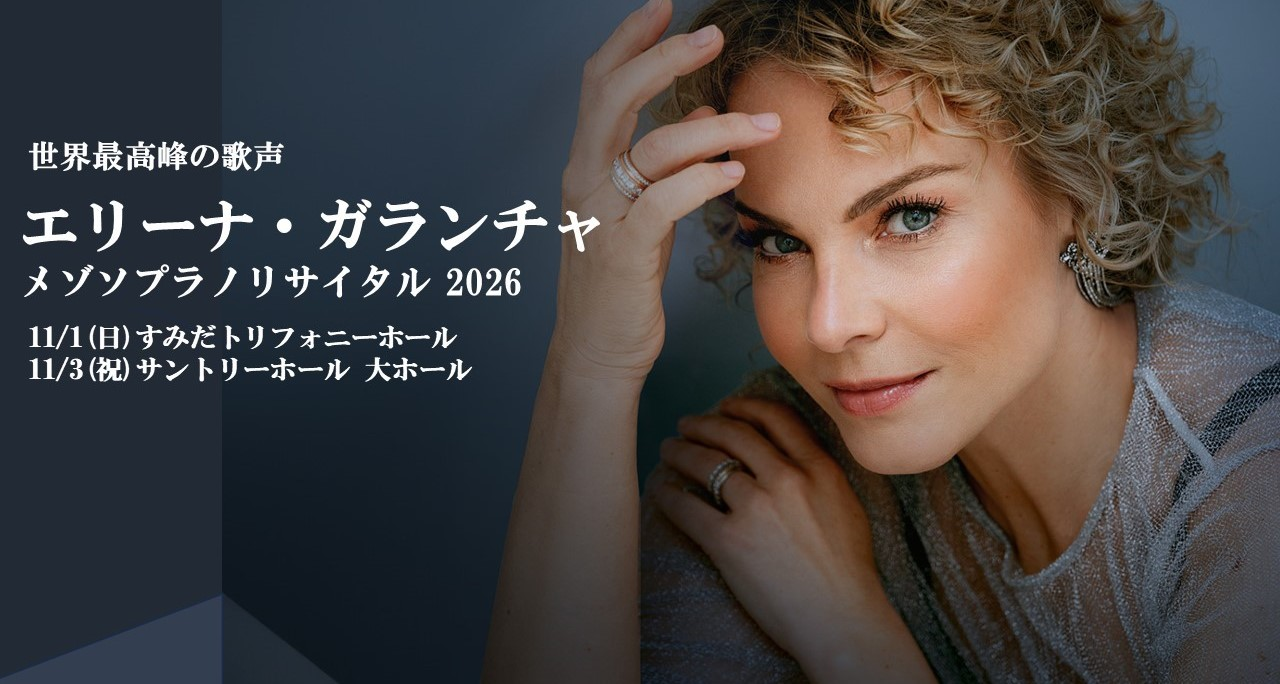
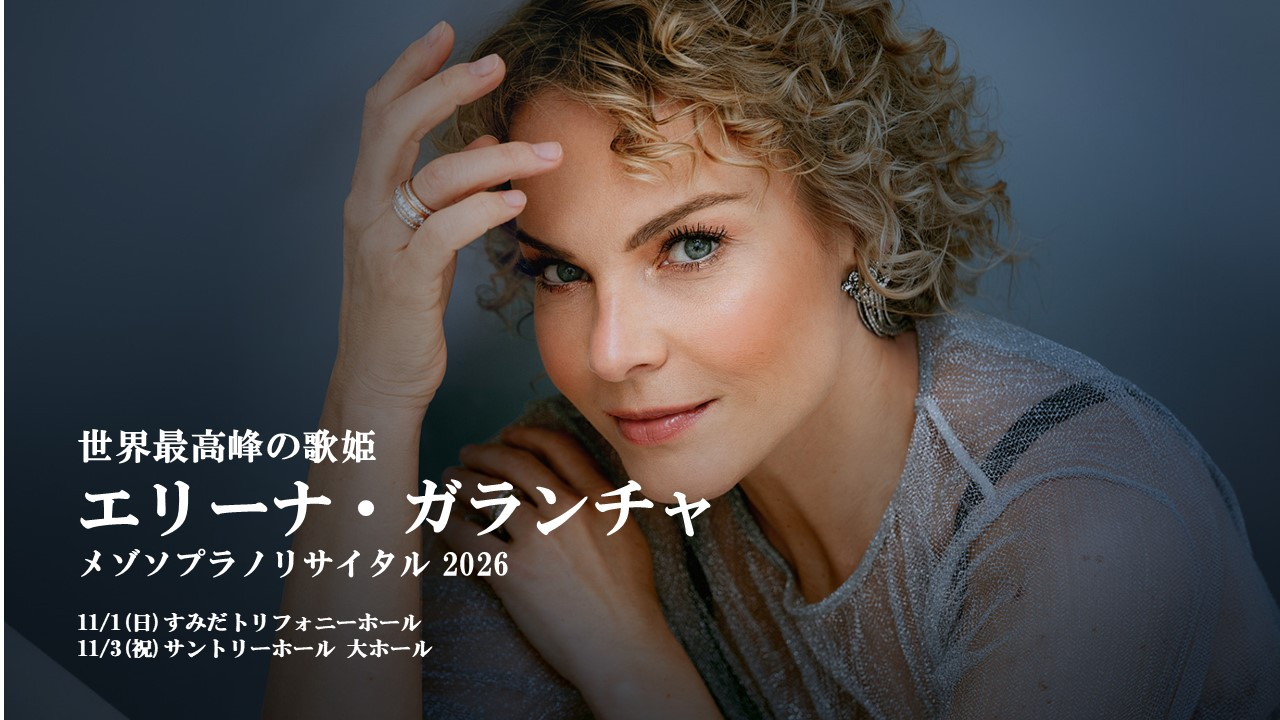
garancha2026.html 校正反映: バナー差替・スケジュール修正・開館40周年追加
- バナー画像を新版（横長５）に差し替え
- すみだトリフォニーホールに「開館40周年記念の公演」追加
- 情報公開日を削除
- 主催者先行発売: TEL受付6/6(土)・Web受付6/8(月)に分離
- すみだトリフォニーホール先行発売: 6/13(土)→6/15(月)に変更
- プレイガイド先行発売: 終了日7/19(日)を削除

diff --git a/concert2020/garancha2026.html b/concert2020/garancha2026.html
@@ -402,7 +402,7 @@
         <div class="gc-date-block">
           <div class="day">2026年11月1日(日)</div>
           <div class="time">開場 12:00 / 開演 13:00</div>
-          <div class="venue">すみだトリフォニーホール　大ホール</div>
+          <div class="venue">すみだトリフォニーホール　大ホール（開館40周年記念の公演）</div>
           <div class="org">主催：テイト・コーポレーション / 共催：すみだトリフォニーホール / 後援：駐日ラトビア共和国大使館</div>
         </div>
         <div class="gc-date-block">
@@ -468,11 +468,10 @@
     <div class="gc-section">
       <div class="gc-section-title">Schedule</div>
       <ul class="gc-schedule-list">
-        <li><span class="gc-schedule-label">情報公開日</span><span class="gc-schedule-date">4月1日(水)</span></li>
-        <li><span class="gc-schedule-label">主催者先行発売</span><span class="gc-schedule-date">6月6日(土) 10:00～</span></li>
-        <li><span class="gc-schedule-label">すみだトリフォニーホール先行発売</span><span class="gc-schedule-date">6月13日(土) 10:00～</span></li>
+        <li><span class="gc-schedule-label">主催者先行発売</span><span class="gc-schedule-date">TEL受付 6月6日(土) 10:00～ / Web受付 6月8日(月) 10:00～</span></li>
+        <li><span class="gc-schedule-label">すみだトリフォニーホール先行発売</span><span class="gc-schedule-date">6月15日(月) 10:00～</span></li>
         <li><span class="gc-schedule-label">サントリーホール先行発売</span><span class="gc-schedule-date">6月13日(土) 10:00～</span></li>
-        <li><span class="gc-schedule-label">プレイガイド先行発売</span><span class="gc-schedule-date">6月27日(土) 10:00～ 7月19日(日)</span></li>
+        <li><span class="gc-schedule-label">プレイガイド先行発売</span><span class="gc-schedule-date">6月27日(土) 10:00～</span></li>
         <li><span class="gc-schedule-label">一般発売</span><span class="gc-schedule-date">7月25日(土)</span></li>
       </ul>
     </div>
